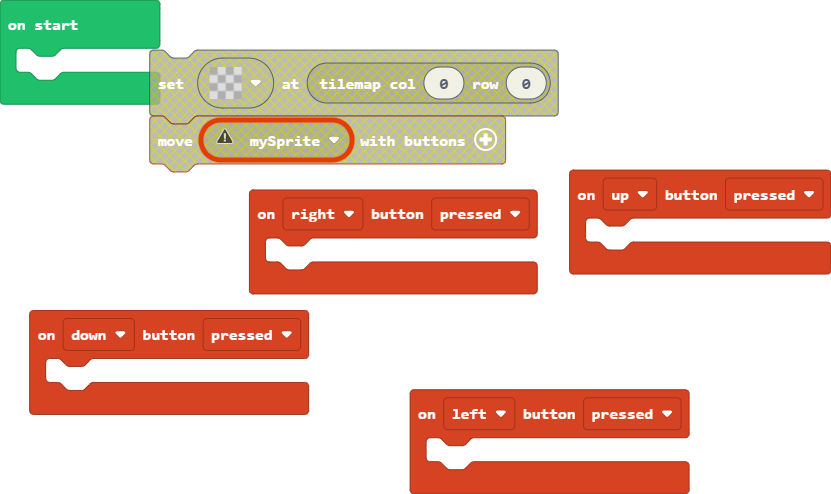
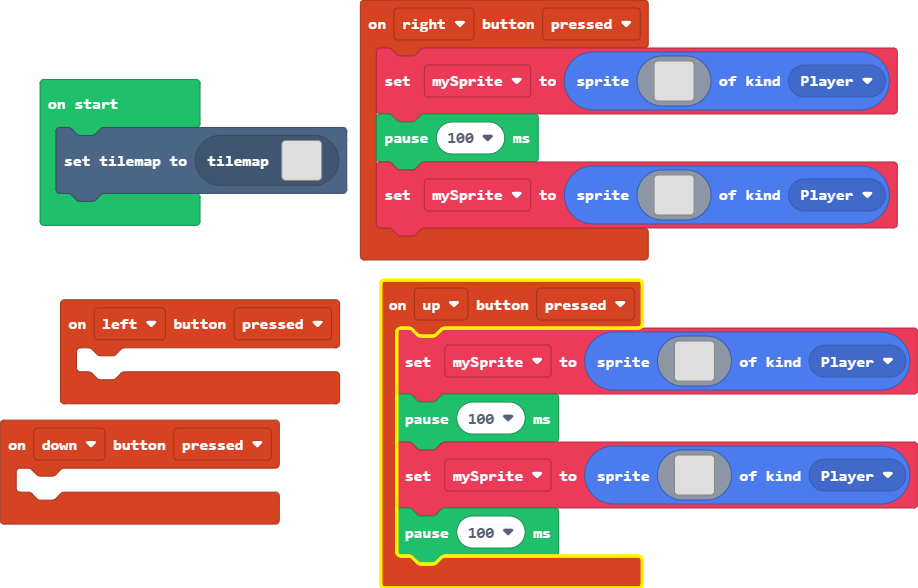
Update pxt.json, main.blocks, main.ts, tilemap.g.jres, tilemap.g.ts

diff --git a/main.ts b/main.ts
@@ -1,12 +1,87 @@
 controller.up.onEvent(ControllerButtonEvent.Pressed, function () {
-	
+    mySprite = sprites.create(img`
+        . . . . . . . . . . . . . . . . 
+        . . . . . . . . . . . . . . . . 
+        . . . . . . . . . . . . . . . . 
+        . . . . . . . . . . . . . . . . 
+        . . . . . . . . . . . . . . . . 
+        . . . . . . . . . . . . . . . . 
+        . . . . . . . . . . . . . . . . 
+        . . . . . . . . . . . . . . . . 
+        . . . . . . . . . . . . . . . . 
+        . . . . . . . . . . . . . . . . 
+        . . . . . . . . . . . . . . . . 
+        . . . . . . . . . . . . . . . . 
+        . . . . . . . . . . . . . . . . 
+        . . . . . . . . . . . . . . . . 
+        . . . . . . . . . . . . . . . . 
+        . . . . . . . . . . . . . . . . 
+        `, SpriteKind.Player)
+    pause(100)
+    mySprite = sprites.create(img`
+        . . . . . . . . . . . . . . . . 
+        . . . . . . . . . . . . . . . . 
+        . . . . . . . . . . . . . . . . 
+        . . . . . . . . . . . . . . . . 
+        . . . . . . . . . . . . . . . . 
+        . . . . . . . . . . . . . . . . 
+        . . . . . . . . . . . . . . . . 
+        . . . . . . . . . . . . . . . . 
+        . . . . . . . . . . . . . . . . 
+        . . . . . . . . . . . . . . . . 
+        . . . . . . . . . . . . . . . . 
+        . . . . . . . . . . . . . . . . 
+        . . . . . . . . . . . . . . . . 
+        . . . . . . . . . . . . . . . . 
+        . . . . . . . . . . . . . . . . 
+        . . . . . . . . . . . . . . . . 
+        `, SpriteKind.Player)
+    pause(100)
 })
 controller.left.onEvent(ControllerButtonEvent.Pressed, function () {
 	
 })
 controller.right.onEvent(ControllerButtonEvent.Pressed, function () {
-	
+    mySprite = sprites.create(img`
+        . . . . . . . . . . . . . . . . 
+        . . . . . . . . . . . . . . . . 
+        . . . . . . . . . . . . . . . . 
+        . . . . . . . . . . . . . . . . 
+        . . . . . . . . . . . . . . . . 
+        . . . . . . . . . . . . . . . . 
+        . . . . . . . . . . . . . . . . 
+        . . . . . . . . . . . . . . . . 
+        . . . . . . . . . . . . . . . . 
+        . . . . . . . . . . . . . . . . 
+        . . . . . . . . . . . . . . . . 
+        . . . . . . . . . . . . . . . . 
+        . . . . . . . . . . . . . . . . 
+        . . . . . . . . . . . . . . . . 
+        . . . . . . . . . . . . . . . . 
+        . . . . . . . . . . . . . . . . 
+        `, SpriteKind.Player)
+    pause(100)
+    mySprite = sprites.create(img`
+        . . . . . . . . . . . . . . . . 
+        . . . . . . . . . . . . . . . . 
+        . . . . . . . . . . . . . . . . 
+        . . . . . . . . . . . . . . . . 
+        . . . . . . . . . . . . . . . . 
+        . . . . . . . . . . . . . . . . 
+        . . . . . . . . . . . . . . . . 
+        . . . . . . . . . . . . . . . . 
+        . . . . . . . . . . . . . . . . 
+        . . . . . . . . . . . . . . . . 
+        . . . . . . . . . . . . . . . . 
+        . . . . . . . . . . . . . . . . 
+        . . . . . . . . . . . . . . . . 
+        . . . . . . . . . . . . . . . . 
+        . . . . . . . . . . . . . . . . 
+        . . . . . . . . . . . . . . . . 
+        `, SpriteKind.Player)
 })
 controller.down.onEvent(ControllerButtonEvent.Pressed, function () {
 	
 })
+let mySprite: Sprite = null
+tiles.setCurrentTilemap(tilemap`level2`)

diff --git a/tilemap.g.ts b/tilemap.g.ts
@@ -1,0 +1,58 @@
+// Auto-generated code. Do not edit.
+namespace myTiles {
+    //% fixedInstance jres blockIdentity=images._tile
+    export const transparency16 = image.ofBuffer(hex``);
+
+    helpers._registerFactory("tilemap", function(name: string) {
+        switch(helpers.stringTrim(name)) {
+            case "level1":
+            case "level1":return tiles.createTilemap(hex`1000100000000000000000000000000000000000000000000000000000000000000000000000000000000000000000000000000000000000000000000000000000000000000000000000000000000000000000000000000000000000000000000000000000000000000000000000000000000000000000000000000000000000000000000000000000000000000000000000000000000000000000000000000000000000000000000000000000000000000000000000000000000000000000000000000000000000000000000000000000000000000000000000000000000000000000000000000000000000000000000000000000000000000000000000000000000000`, img`
+. . . . . . . . . . . . . . . . 
+. . . . . . . . . . . . . . . . 
+. . . . . . . . . . . . . . . . 
+. . . . . . . . . . . . . . . . 
+. . . . . . . . . . . . . . . . 
+. . . . . . . . . . . . . . . . 
+. . . . . . . . . . . . . . . . 
+. . . . . . . . . . . . . . . . 
+. . . . . . . . . . . . . . . . 
+. . . . . . . . . . . . . . . . 
+. . . . . . . . . . . . . . . . 
+. . . . . . . . . . . . . . . . 
+. . . . . . . . . . . . . . . . 
+. . . . . . . . . . . . . . . . 
+. . . . . . . . . . . . . . . . 
+. . . . . . . . . . . . . . . . 
+`, [myTiles.transparency16], TileScale.Sixteen);
+            case "level2":
+            case "level2":return tiles.createTilemap(hex`1000100000000000000000000000000000000000000000000000000000000000000000000000000000000000000000000000000000000000000000000000000000000000000000000000000000000000000000000000000000000000000000000000000000000000000000000000000000000000000000000000000000000000000000000000000000000000000000000000000000000000000000000000000000000000000000000000000000000000000000000000000000000000000000000000000000000000000000000000000000000000000000000000000000000000000000000000000000000000000000000000000000000000000000000000000000000000`, img`
+. . . . . . . . . . . . . . . . 
+. . . . . . . . . . . . . . . . 
+. . . . . . . . . . . . . . . . 
+. . . . . . . . . . . . . . . . 
+. . . . . . . . . . . . . . . . 
+. . . . . . . . . . . . . . . . 
+. . . . . . . . . . . . . . . . 
+. . . . . . . . . . . . . . . . 
+. . . . . . . . . . . . . . . . 
+. . . . . . . . . . . . . . . . 
+. . . . . . . . . . . . . . . . 
+. . . . . . . . . . . . . . . . 
+. . . . . . . . . . . . . . . . 
+. . . . . . . . . . . . . . . . 
+. . . . . . . . . . . . . . . . 
+. . . . . . . . . . . . . . . . 
+`, [myTiles.transparency16], TileScale.Sixteen);
+        }
+        return null;
+    })
+
+    helpers._registerFactory("tile", function(name: string) {
+        switch(helpers.stringTrim(name)) {
+            case "transparency16":return transparency16;
+        }
+        return null;
+    })
+
+}
+// Auto-generated code. Do not edit.
